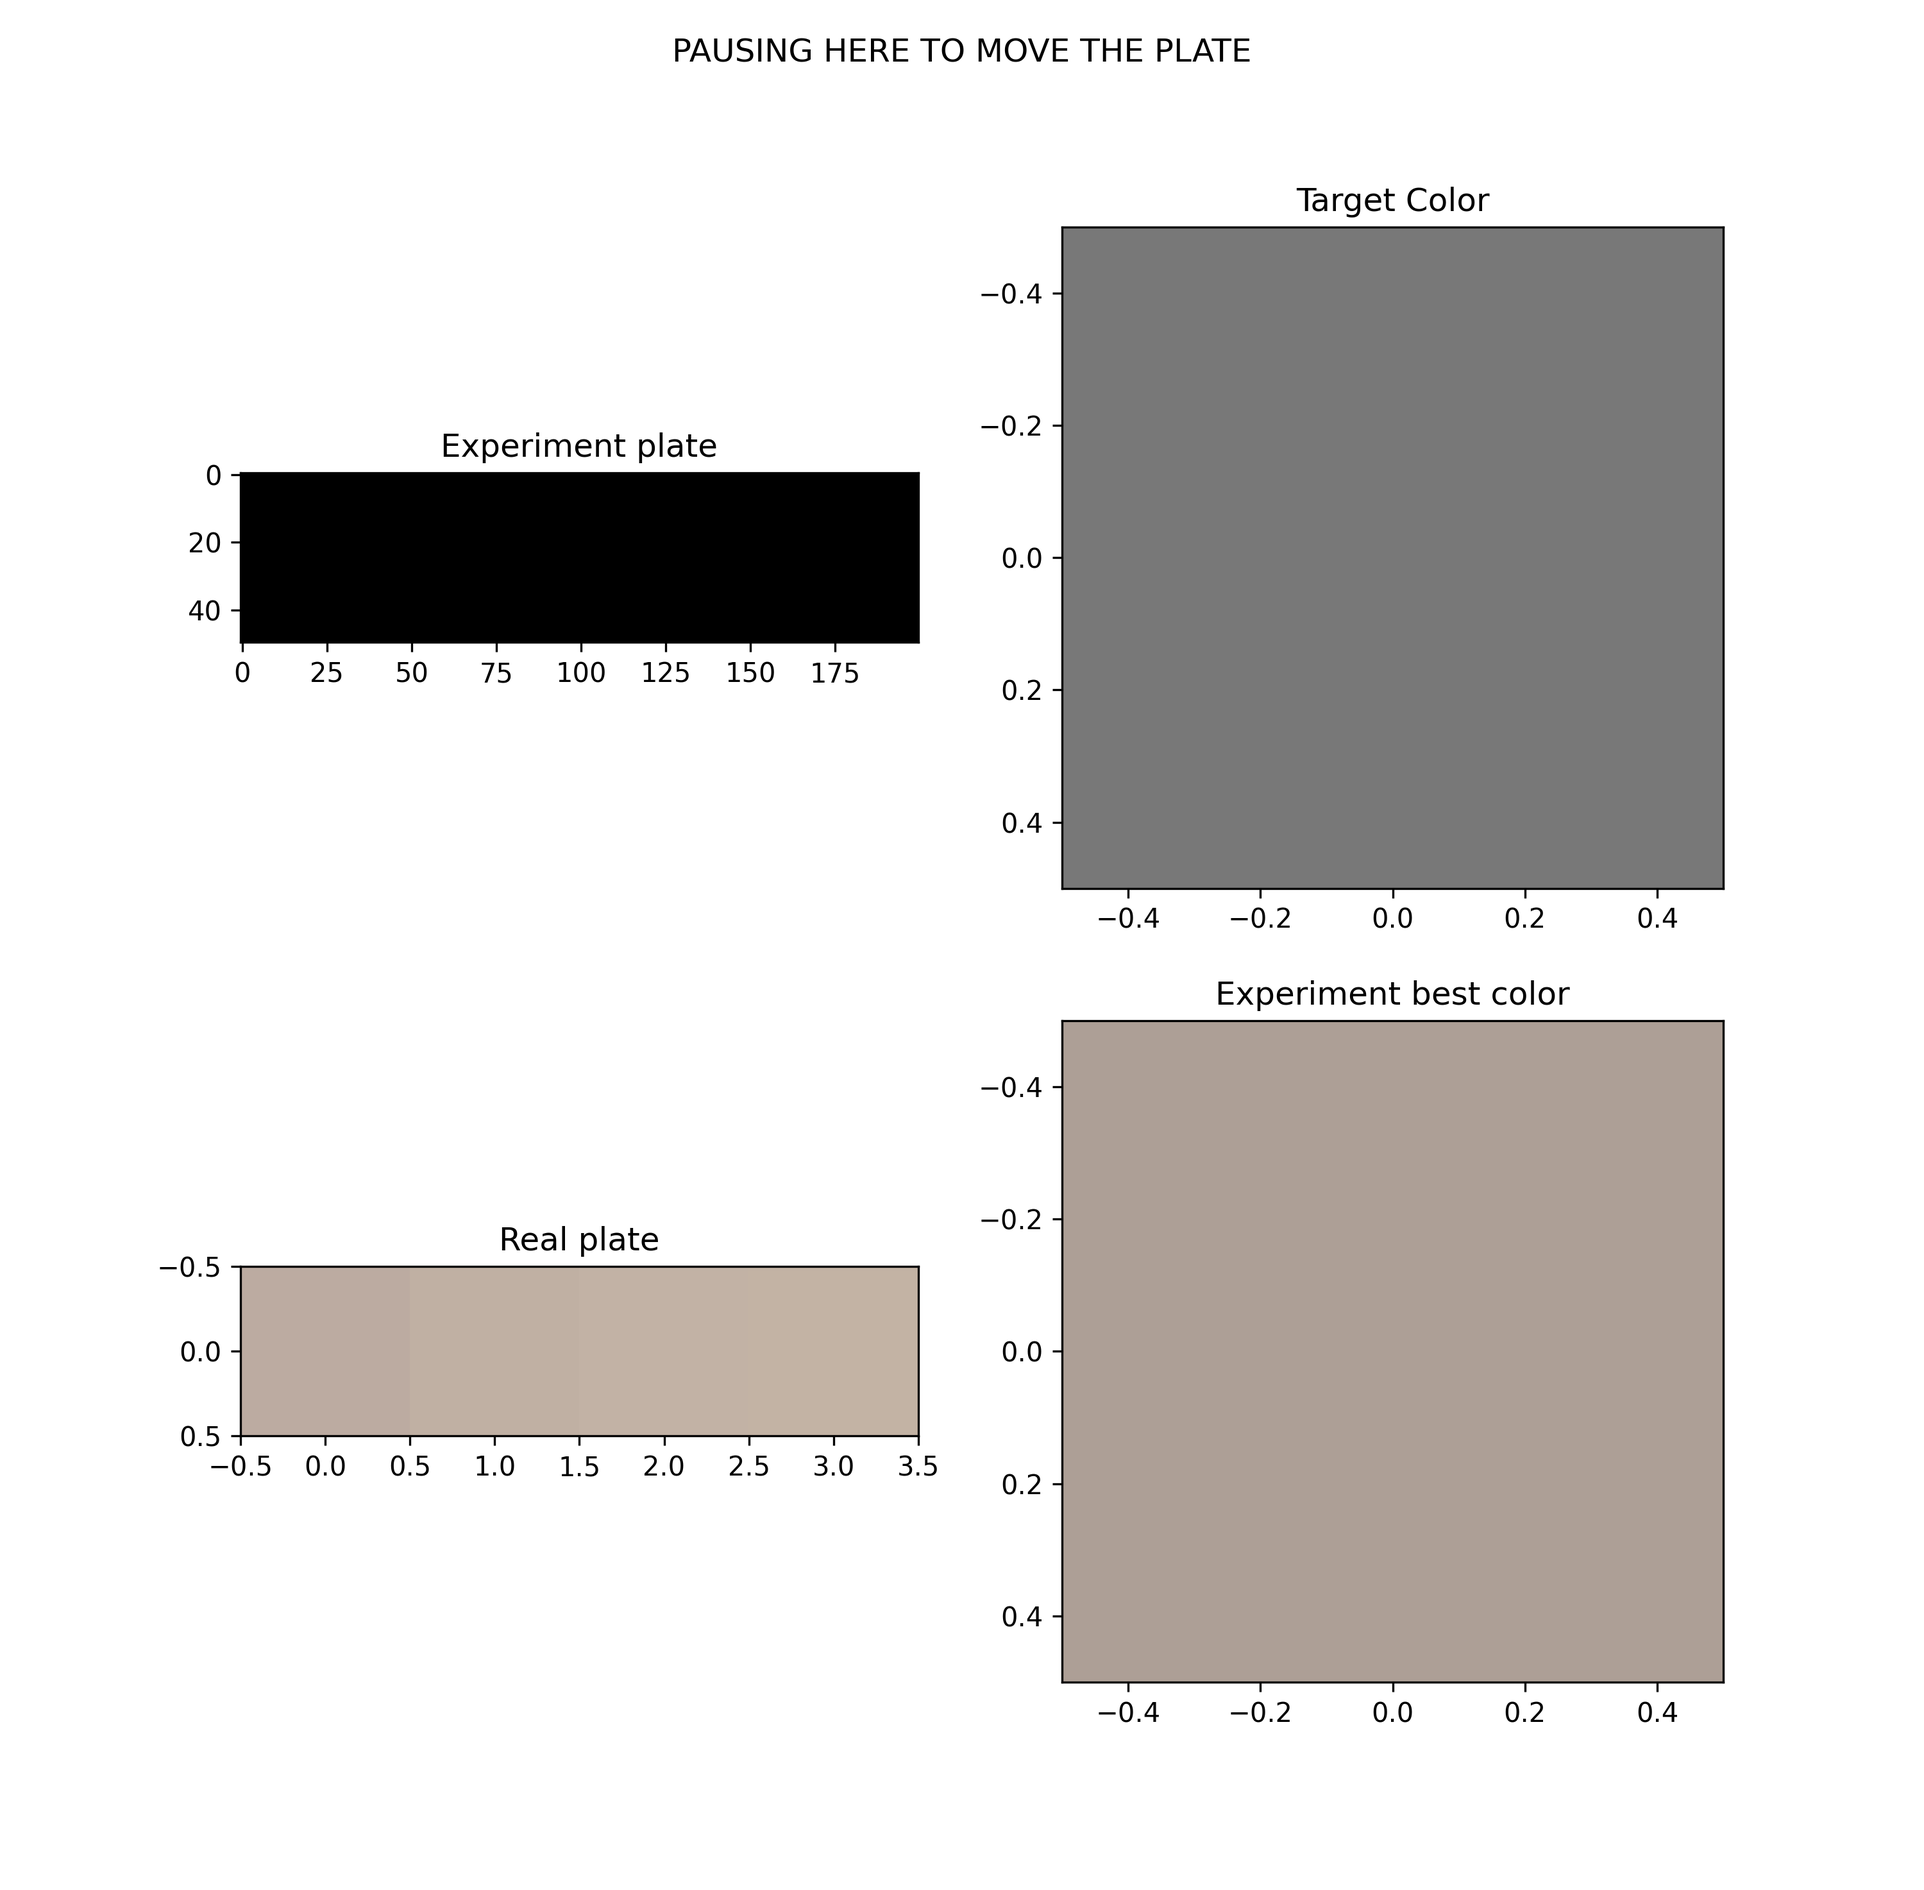
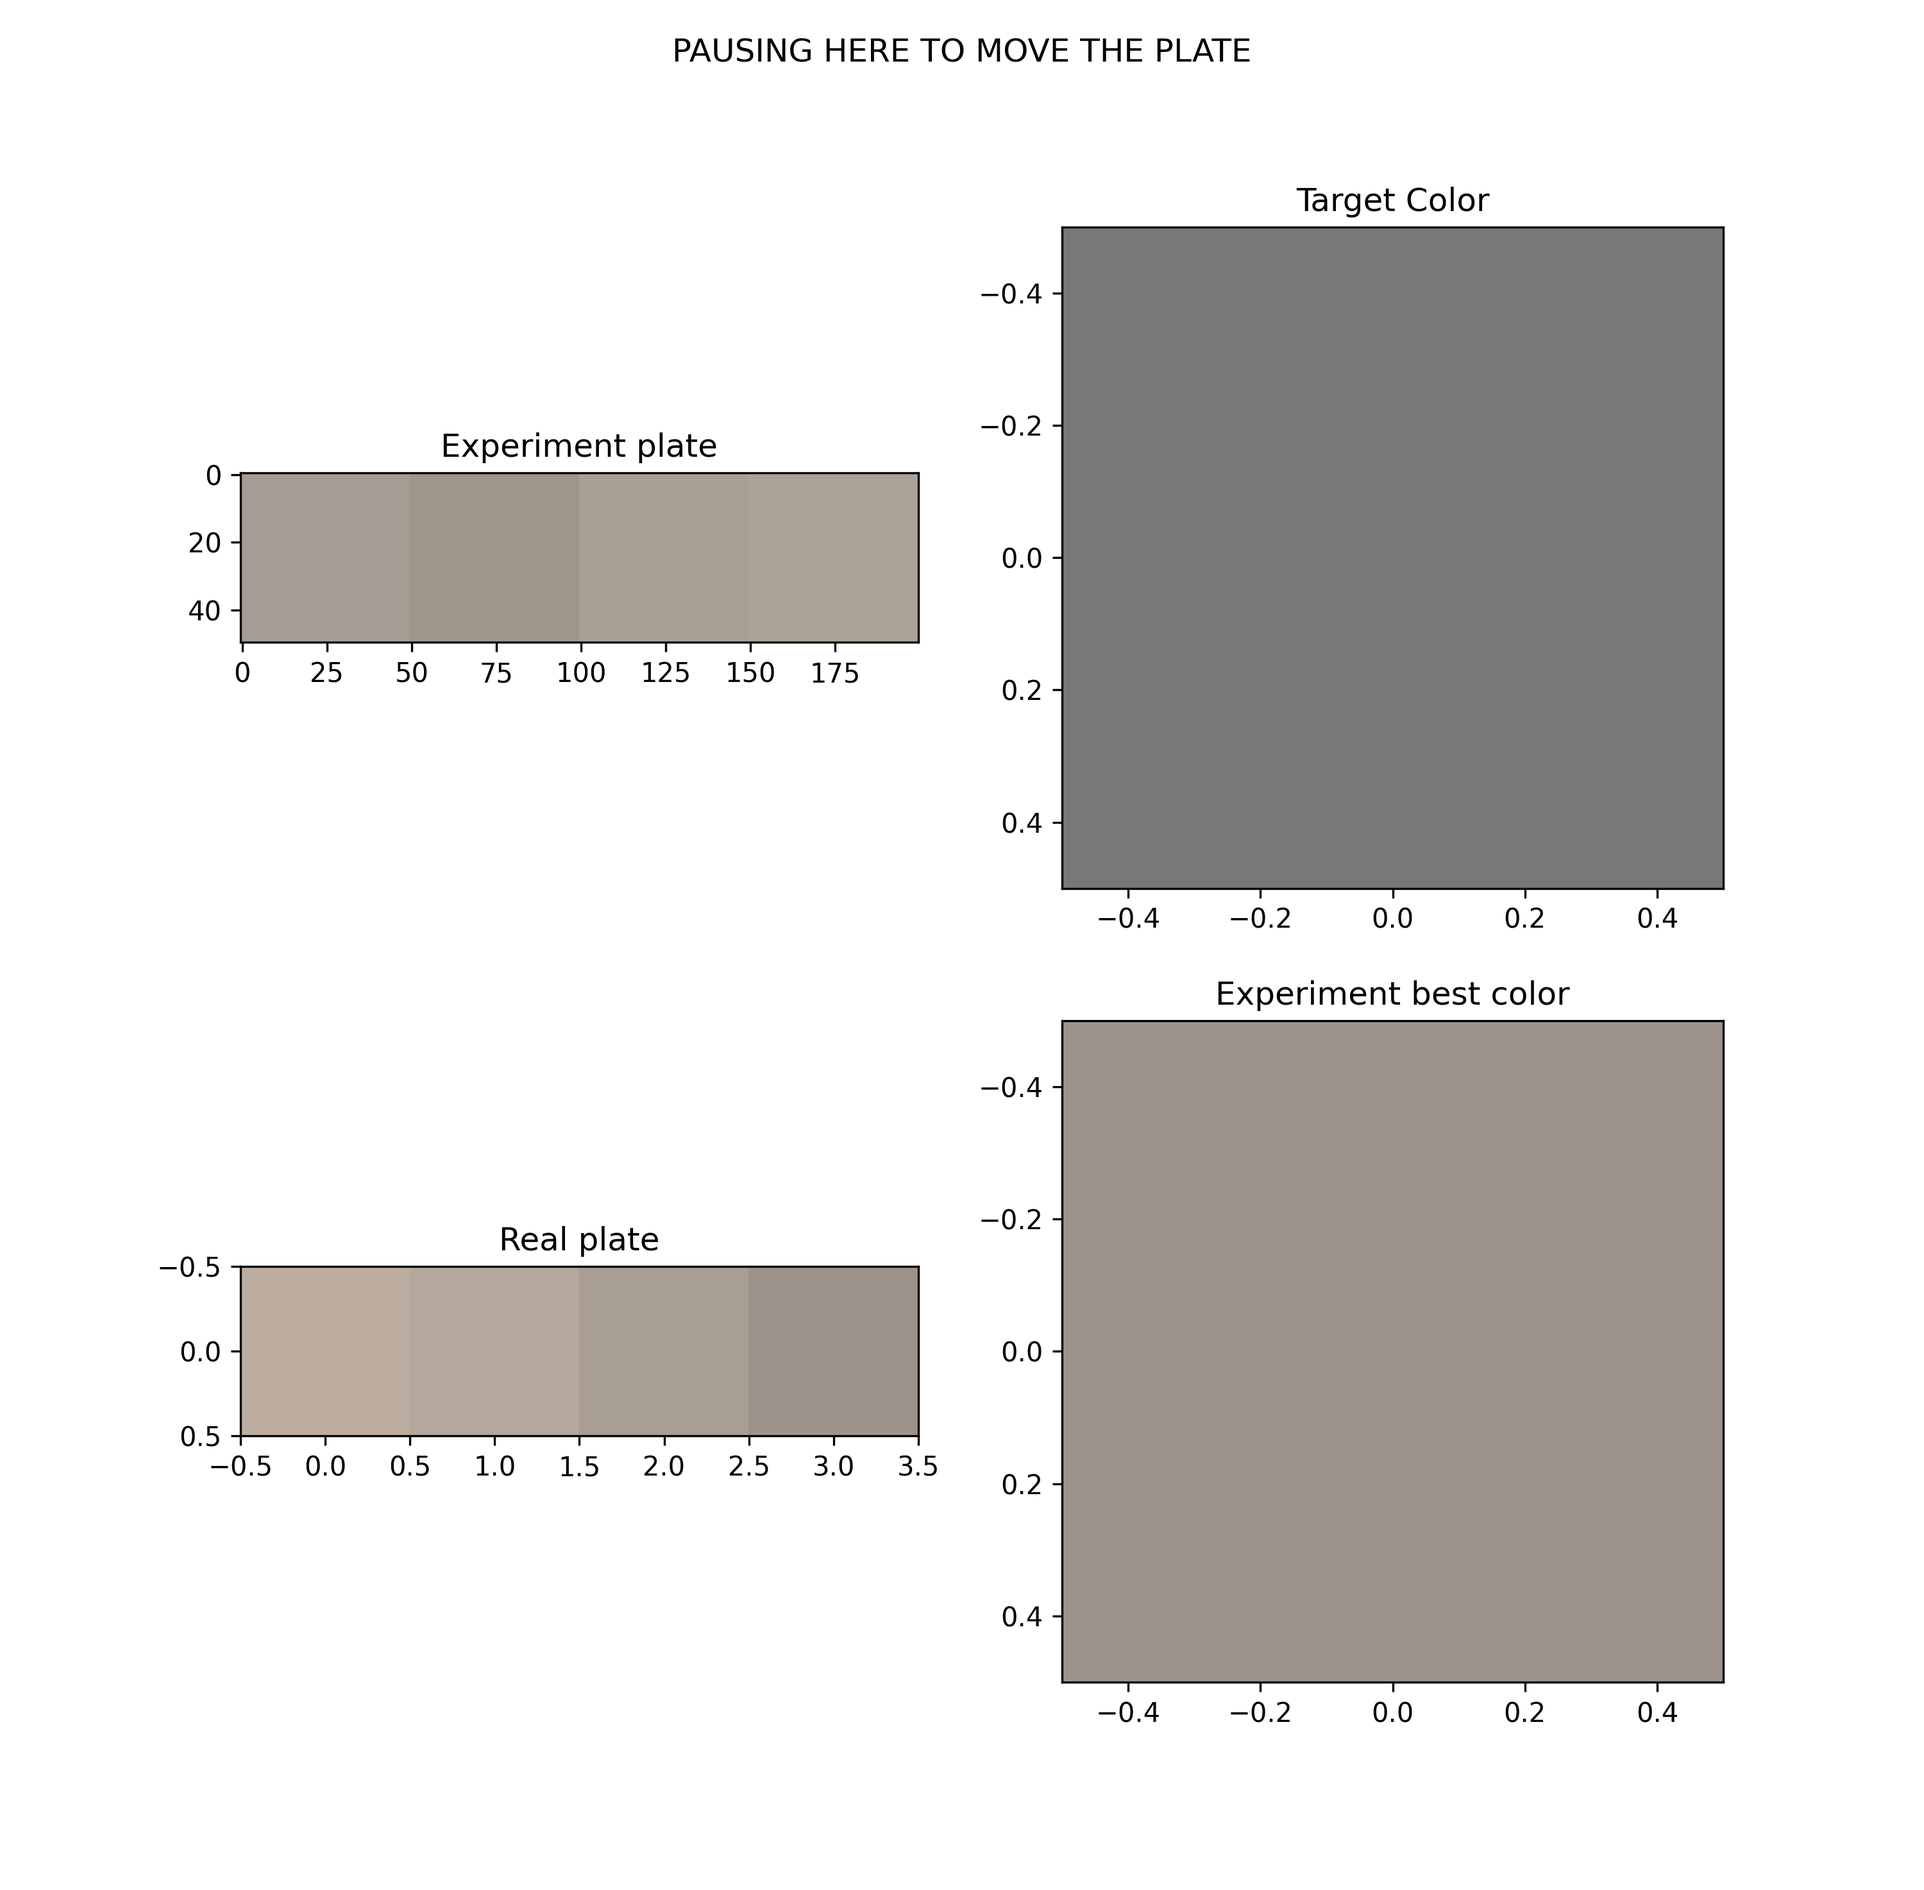
running on most recent version of wei

Changed region(s): [[0.124, 0.2498, 0.496, 0.3435], [0.279, 0.6558, 0.496, 0.7807]]

diff --git a/applications/color_picker_app/color_picker_application.py b/applications/color_picker_app/color_picker_application.py
@@ -94,10 +94,19 @@ def run(
     exp_folder.mkdir(parents=True, exist_ok=True)
     (exp_folder / "results").mkdir(parents=True, exist_ok=True)
     exp = ExperimentClient(
-        "localhost",
+        "mj.cels.anl.gov",
         "8000",
         "Color_Picker",
     )
+    output_dir = (
+                str(Path.cwd())
+                + "/experiment_results/"
+                + str("Color_Picker")
+                + "_id_"
+                + exp.experiment_id
+    )
+    Path(output_dir).mkdir(parents=True, exist_ok=True)
+            
     # Resource Tracking:
     plate_n = 1  # total number of plates
     current_iter = 0  # total number of iterations
@@ -139,36 +148,36 @@ def run(
         # grab new plate if experiment starting or current plate is full
         exp.events.log_decision("Need New Plate", (new_plate or current_iter == 0))
         if new_plate or current_iter == 0:
-            # print('Grabbing New Plate')
-           # steps_run, run_info = start_run_with_log_scraping(
-                # init_protocol, payload, steps_run, exp
-           # )
-           # curr_wells_used = []
+            print('Grabbing New Plate')
+            steps_run, run_info = start_run_with_log_scraping(
+                    init_protocol, payload, steps_run, exp
+            )
+            curr_wells_used = []
             new_plate = False
             exp.events.log_decision("Need Calibration", (current_iter == 0))
             if current_iter == 0:
-                # # Run the calibration protocol that gets the colors being mixed and ensures the target color is within the possible color space
-                # (
-                #     colors,
-                #     target_color,
-                #     curr_wells_used,
-                #     steps_run,
-                #     analytical_sol,
-                #     color_inverse,
-                # ) = calibrate(
-                #     target_color,
-                #     curr_wells_used,
-                #     loop_protocol,
-                #     exp_folder,
-                #     plate_max_volume,
-                #     steps_run,
-                #     pop_size,
-                #     exp,
-                #     ot2_protocol,
-                # )
-                # analytical_score = solver._grade_population(
-                #     [analytical_sol], target_color
-                # )[0]
+                # Run the calibration protocol that gets the colors being mixed and ensures the target color is within the possible color space
+                (
+                    colors,
+                    target_color,
+                    curr_wells_used,
+                    steps_run,
+                    analytical_sol,
+                    color_inverse,
+                ) = calibrate(
+                    target_color,
+                    curr_wells_used,
+                    loop_protocol,
+                    exp_folder,
+                    plate_max_volume,
+                    steps_run,
+                    pop_size,
+                    exp,
+                    ot2_protocol,
+                )
+                analytical_score = solver._grade_population(
+                    [analytical_sol], target_color
+                )[0]
                 pass
             else:
                 # save the old plate picture and increment to a new plate
@@ -187,7 +196,6 @@ def run(
         previous_ratios = solver.run_iteration(previous_ratios, prev_diffs)
         # Only for visualization, Perform a linear combination of the next colors being tried to show what the solver expects to create on this run.
         print(previous_ratios)
-        colors = [[0, 0, 0], [0, 0, 0], [0, 0, 0], [0, 0, 0]]
         print(colors)
         target_plate = create_target_plate(previous_ratios, colors)
         print(target_plate)
@@ -220,9 +228,9 @@ def run(
             used_wells + pop_size > MAX_PLATE_SIZE
         ):  # if we have used all wells or not enough for next iter (thrash plate, start from scratch)
             print("Trashing Used Plate")
-            # steps_run, _ = start_run_with_log_scraping(
-            #     final_protocol, payload, steps_run, exp
-            # )
+            steps_run, _ = start_run_with_log_scraping(
+                final_protocol, payload, steps_run, exp
+            )
             new_plate = True
             curr_wells_used = []
 
@@ -298,7 +306,7 @@ def run(
         # output should be list [pop_size, 3]
         #img_path =
         #  Path(run_info["Take Picture"]["action_msg"].replace("/home/app", str(Path.home())))
-        img_path = exp.get_step_result_file(run_info, "Take Picture", filename="final_img.jpg")
+        img_path = Path(exp.get_wf_result_file(run_info["hist"]["Take Picture"]["action_msg"], Path(run_info["run_dir"].replace("/home/app", str(Path.home()))) / "results" / "final_img.jpg", run_info["run_id"]))
         print(img_path)
         # if use_globus_compute:
         #     print("funcx started")
@@ -343,8 +351,8 @@ def run(
         ##Plot review
         runs = []
         report = {}
-        if (Path(exp.output_dir) / "exp_data.txt").is_file():
-            with open(Path(exp.output_dir) / "exp_data.txt", "r") as f:
+        if (Path(output_dir) / "exp_data.txt").is_file():
+            with open(Path(output_dir) / "exp_data.txt", "r") as f:
                 report = json.loads(f.read())
             runs = report["runs"]
             
@@ -393,7 +401,7 @@ def run(
         )
 
         # Save run report
-        with open(exp.output_dir + "/exp_data.txt", "w") as f:
+        with open(output_dir + "/exp_data.txt", "w") as f:
             report_js = json.dumps(report, indent=4)
             f.write(report_js)
         collect_files(exp, img_path, plate_n)
@@ -426,9 +434,9 @@ def run(
         (exp_folder / "results" / f"plate_{plate_n}.jpg"),
     )
     if not new_plate:
-        # steps_run, _ = start_run_with_log_scraping(
-        #     final_protocol, payload, steps_run, exp
-        # )
+        steps_run, _ = start_run_with_log_scraping(
+            final_protocol, payload, steps_run, exp
+        )
         pass
     exp.events.end_experiment()
     print("This is our best color so far")

diff --git a/applications/color_picker_app/tools/calibrate.py b/applications/color_picker_app/tools/calibrate.py
@@ -23,7 +23,7 @@ def get_image(
     steps_run, run_info = start_run_with_log_scraping(
         loop_protocol, payload, steps_run, experiment
     )
-    img_path = run_info["Take Picture"]["action_msg"].replace("/home/app", str(Path.home()))
+    img_path = experiment.get_wf_result_file(run_info["hist"]["Take Picture"]["action_msg"], Path(run_info["run_dir"].replace("/home/app", str(Path.home()))) / "results" / "final_img.jpg", run_info["run_id"])
     return Path(img_path), curr_wells_used
 
 

diff --git a/applications/color_picker_app/tools/start_run.py b/applications/color_picker_app/tools/start_run.py
@@ -25,6 +25,6 @@ def start_run_with_log_scraping(
     run_info = result["hist"]
     run_info["run_dir"] = Path(run_info["run_dir"])
     run_log = Path(result["run_log"].replace("/home/app", str(Path.home())))
-    t_steps_run = get_log_info(run_log, protocol)
-    steps_run.append(t_steps_run)
+    # t_steps_run = get_log_info(run_log, protocol)
+    # steps_run.append(t_steps_run)
     return steps_run, result
